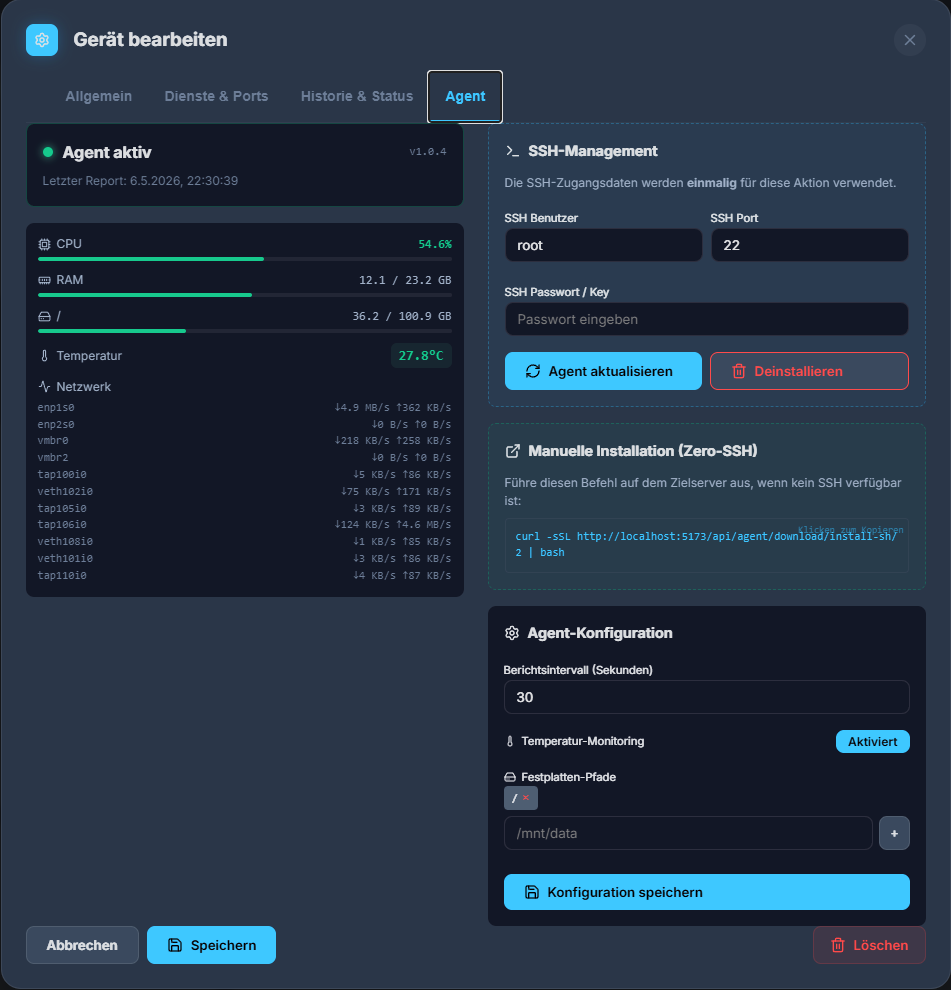
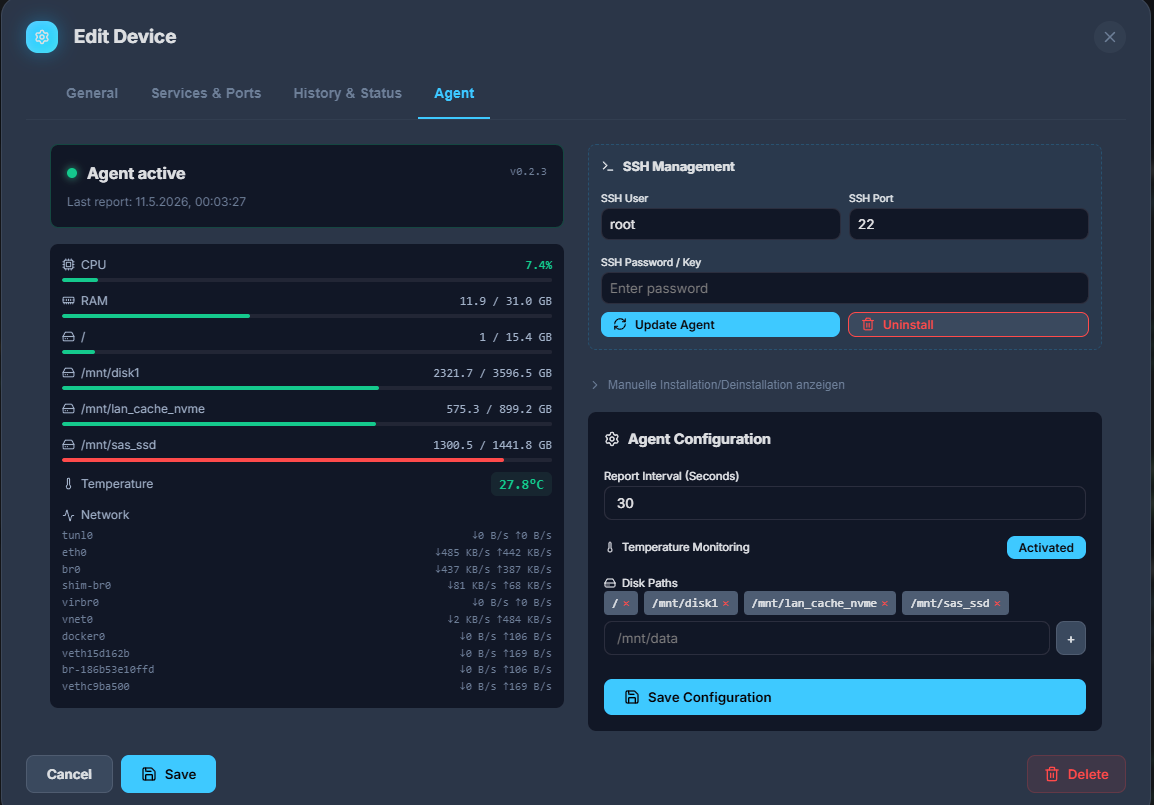
fix(agent): resolve agent script paths for download/deploy
- Centralize lookup via agent_deployer (Docker, repo parents, cwd)

- docker-compose: mount app and agent dirs separately on Unraid paths

- Refresh screenshot assets

diff --git a/backend/app/services/agent_deployer.py b/backend/app/services/agent_deployer.py
@@ -14,20 +14,37 @@ from pathlib import Path
 
 logger = logging.getLogger(__name__)
 
-# Identify the correct project root regardless of environment (Local vs Docker)
-_this_dir = Path(__file__).resolve().parent
-# Docker: /app/app/services -> .parent.parent is /app/
-# Dev: backend/app/services -> .parent.parent.parent is root
-_root_docker = _this_dir.parent.parent
-_root_dev = _this_dir.parent.parent.parent
+def get_agent_script_path() -> Path:
+    """Find the agent script in various possible locations."""
+    # 1. Absolute path in Docker
+    p = Path("/app/agent/gravitylan-agent.py")
+    if p.exists(): return p
+    
+    # 2. Relative to this file (backend/app/services/agent_deployer.py)
+    # Target: agent/gravitylan-agent.py
+    this_file = Path(__file__).resolve()
+    
+    # Try parents (up to 4 levels)
+    curr = this_file.parent
+    for _ in range(4):
+        candidate = curr / "agent" / "gravitylan-agent.py"
+        if candidate.exists(): return candidate
+        
+        candidate = curr / "gravitylan-agent.py" # In case it's in the same dir
+        if candidate.exists(): return candidate
+        
+        curr = curr.parent
+        
+    # 3. Fallback to CWD
+    p = Path("agent/gravitylan-agent.py").resolve()
+    if p.exists(): return p
+    
+    return Path("/app/agent/gravitylan-agent.py") # Default
 
-AGENT_SCRIPT_PATH = _root_docker / "agent" / "gravitylan-agent.py"
-if not AGENT_SCRIPT_PATH.exists():
-    AGENT_SCRIPT_PATH = _root_dev / "agent" / "gravitylan-agent.py"
+AGENT_SCRIPT_PATH = get_agent_script_path()
+logger.info(f"Agent script path resolved to: {AGENT_SCRIPT_PATH} (Exists: {AGENT_SCRIPT_PATH.exists()})")
 
-SERVICE_UNIT_PATH = _root_docker / "agent" / "gravitylan-agent.service"
-if not SERVICE_UNIT_PATH.exists():
-    SERVICE_UNIT_PATH = _root_dev / "agent" / "gravitylan-agent.service"
+SERVICE_UNIT_PATH = AGENT_SCRIPT_PATH.parent / "gravitylan-agent.service"
 
 # Standardized path matching manual install script
 REMOTE_BASE_DIR = "/opt/gravitylan-agent"

diff --git a/backend/app/api/agent.py b/backend/app/api/agent.py
@@ -586,21 +586,9 @@ async def get_metrics_history(
 
 @router.get("/download/agent")
 async def download_agent_file():
-    """Download the gravitylan-agent.py script."""
-    current_file = Path(__file__).resolve()
-    agent_path = Path("/app/agent/gravitylan-agent.py")
-    if not agent_path.exists():
-        # backend/app/api/agent.py -> backend/app/api -> backend/app -> backend -> root
-        root_dir = current_file.parent.parent.parent.parent
-        agent_path = root_dir / "agent" / "gravitylan-agent.py"
+    from app.services.agent_deployer import AGENT_SCRIPT_PATH
+    agent_path = AGENT_SCRIPT_PATH
     
-    logger.info("Agent download request. Path: %s", agent_path)
-    
-    if not agent_path.exists():
-        logger.error("Agent script not found at: %s", agent_path)
-        # Try fallback to project root relative to CWD
-        agent_path = Path("agent/gravitylan-agent.py").resolve()
-        
     if not agent_path.exists():
         raise HTTPException(status_code=404, detail="Agent script not found on server")
         